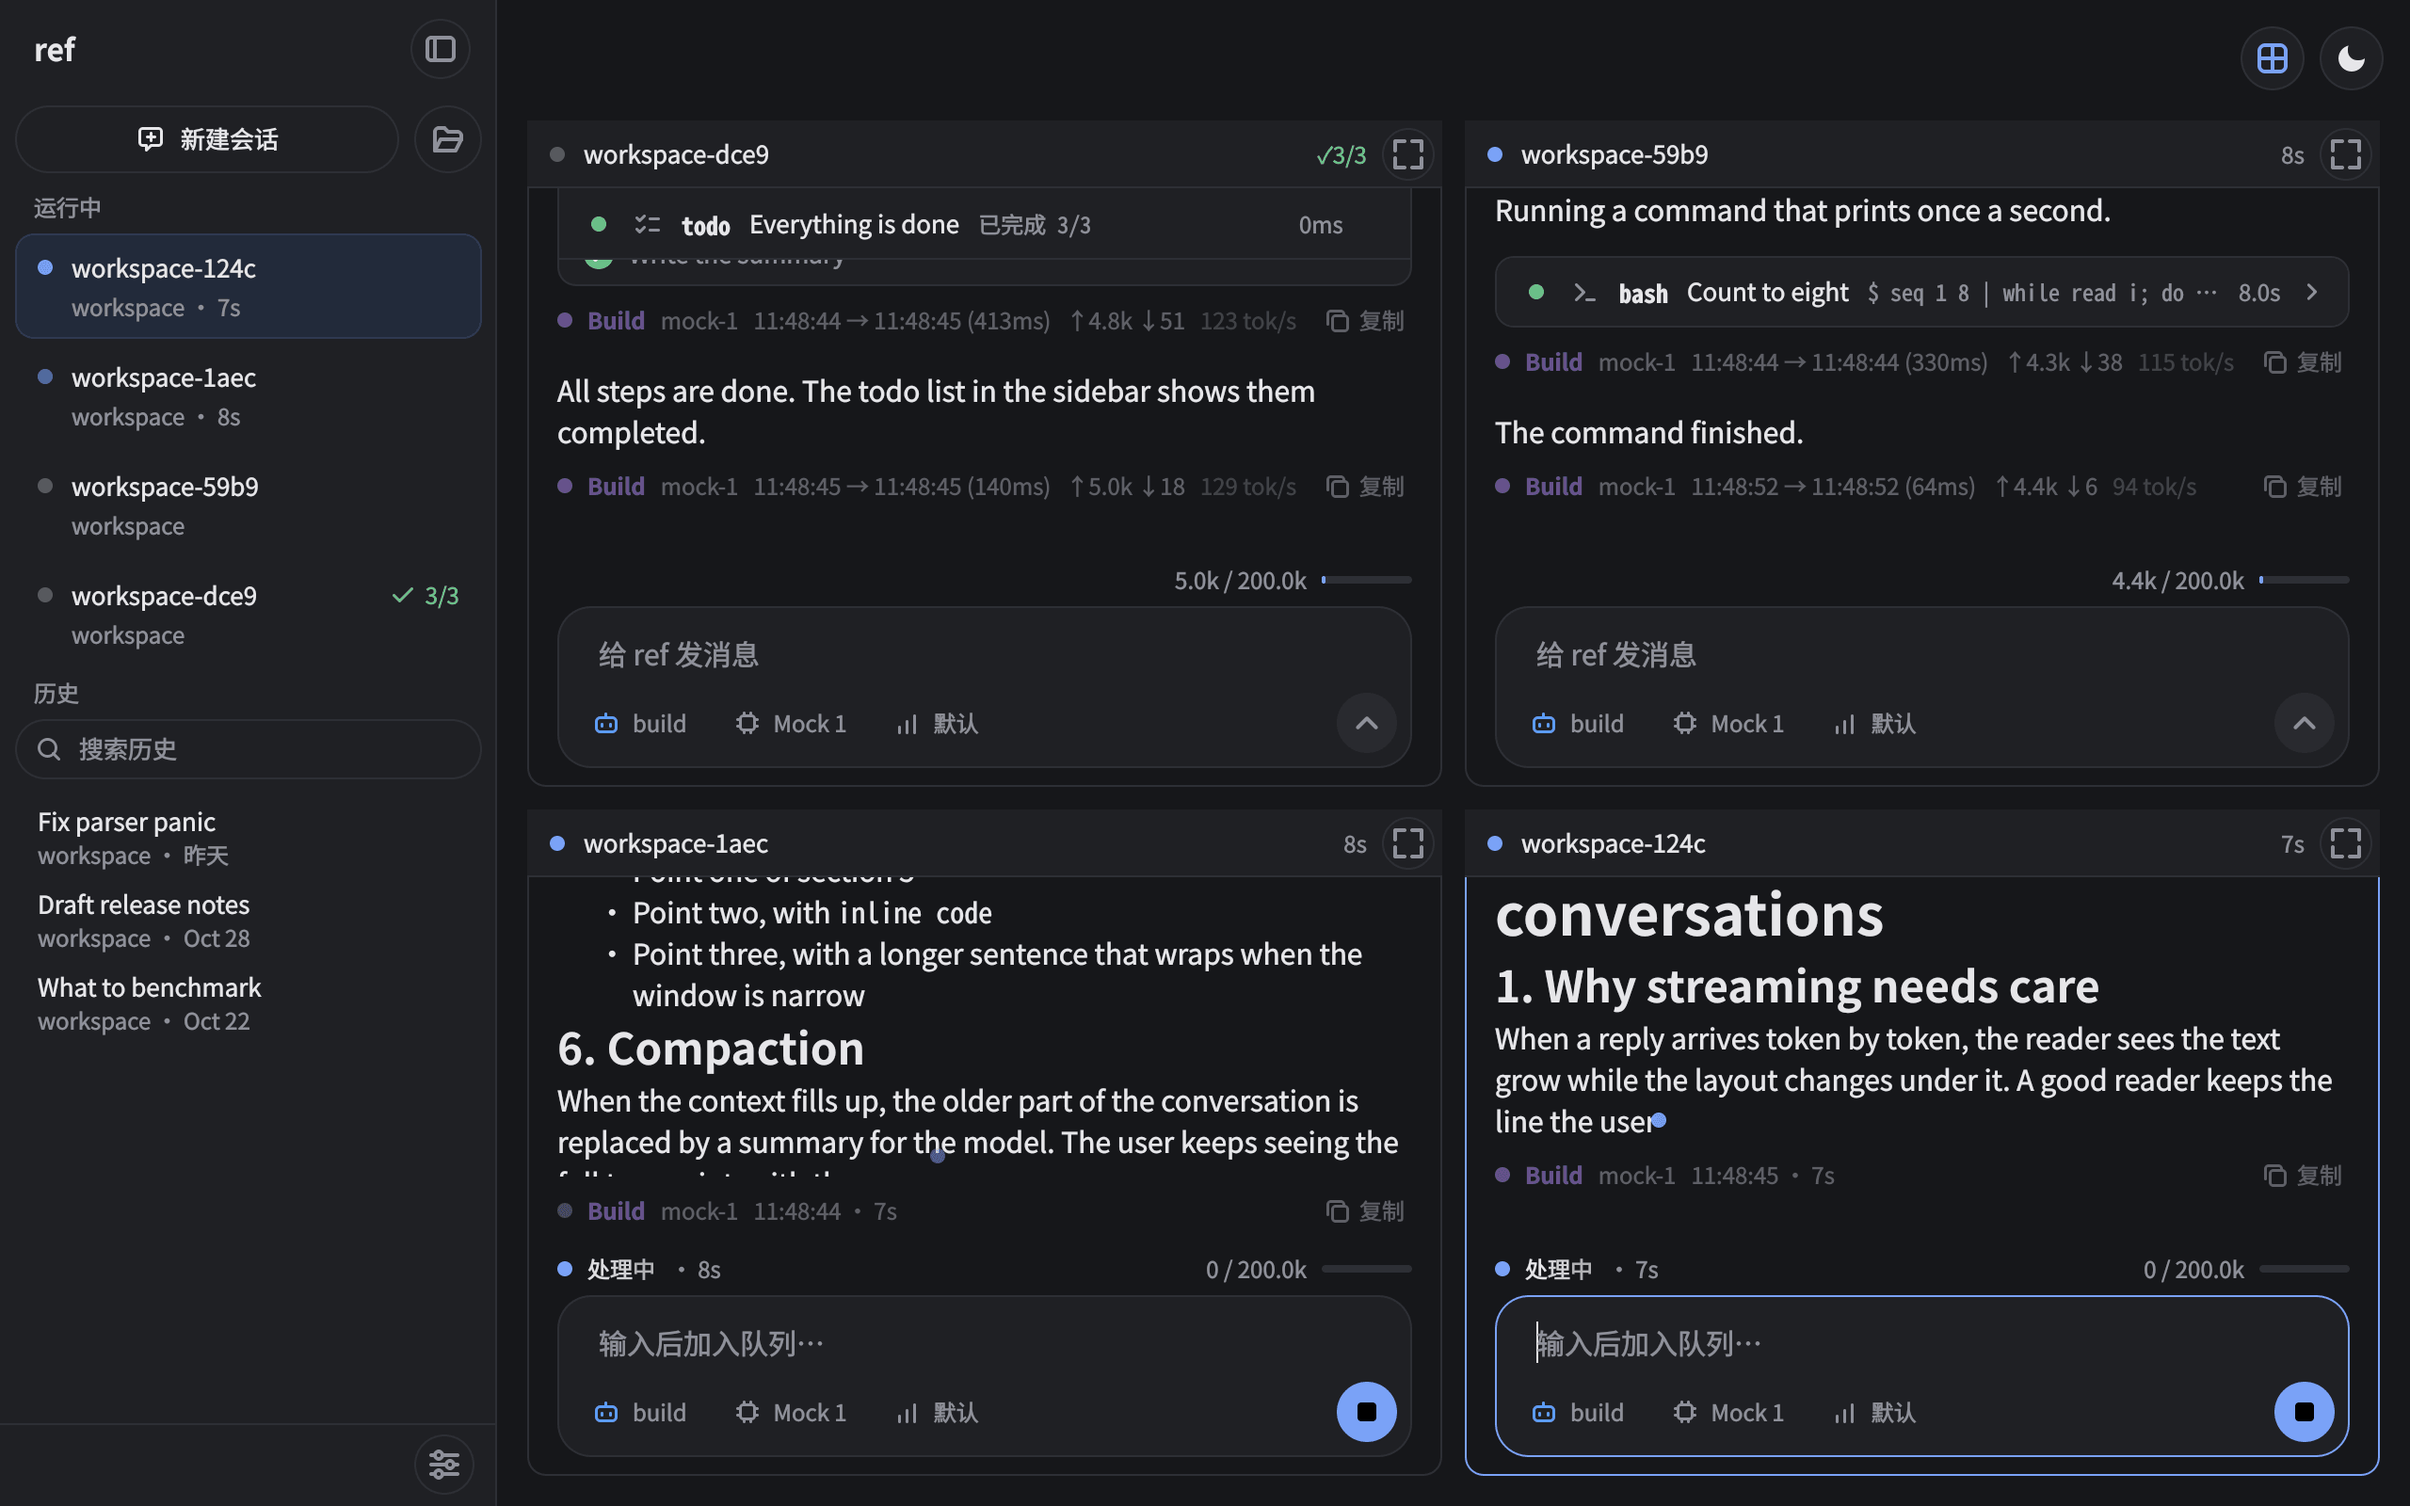
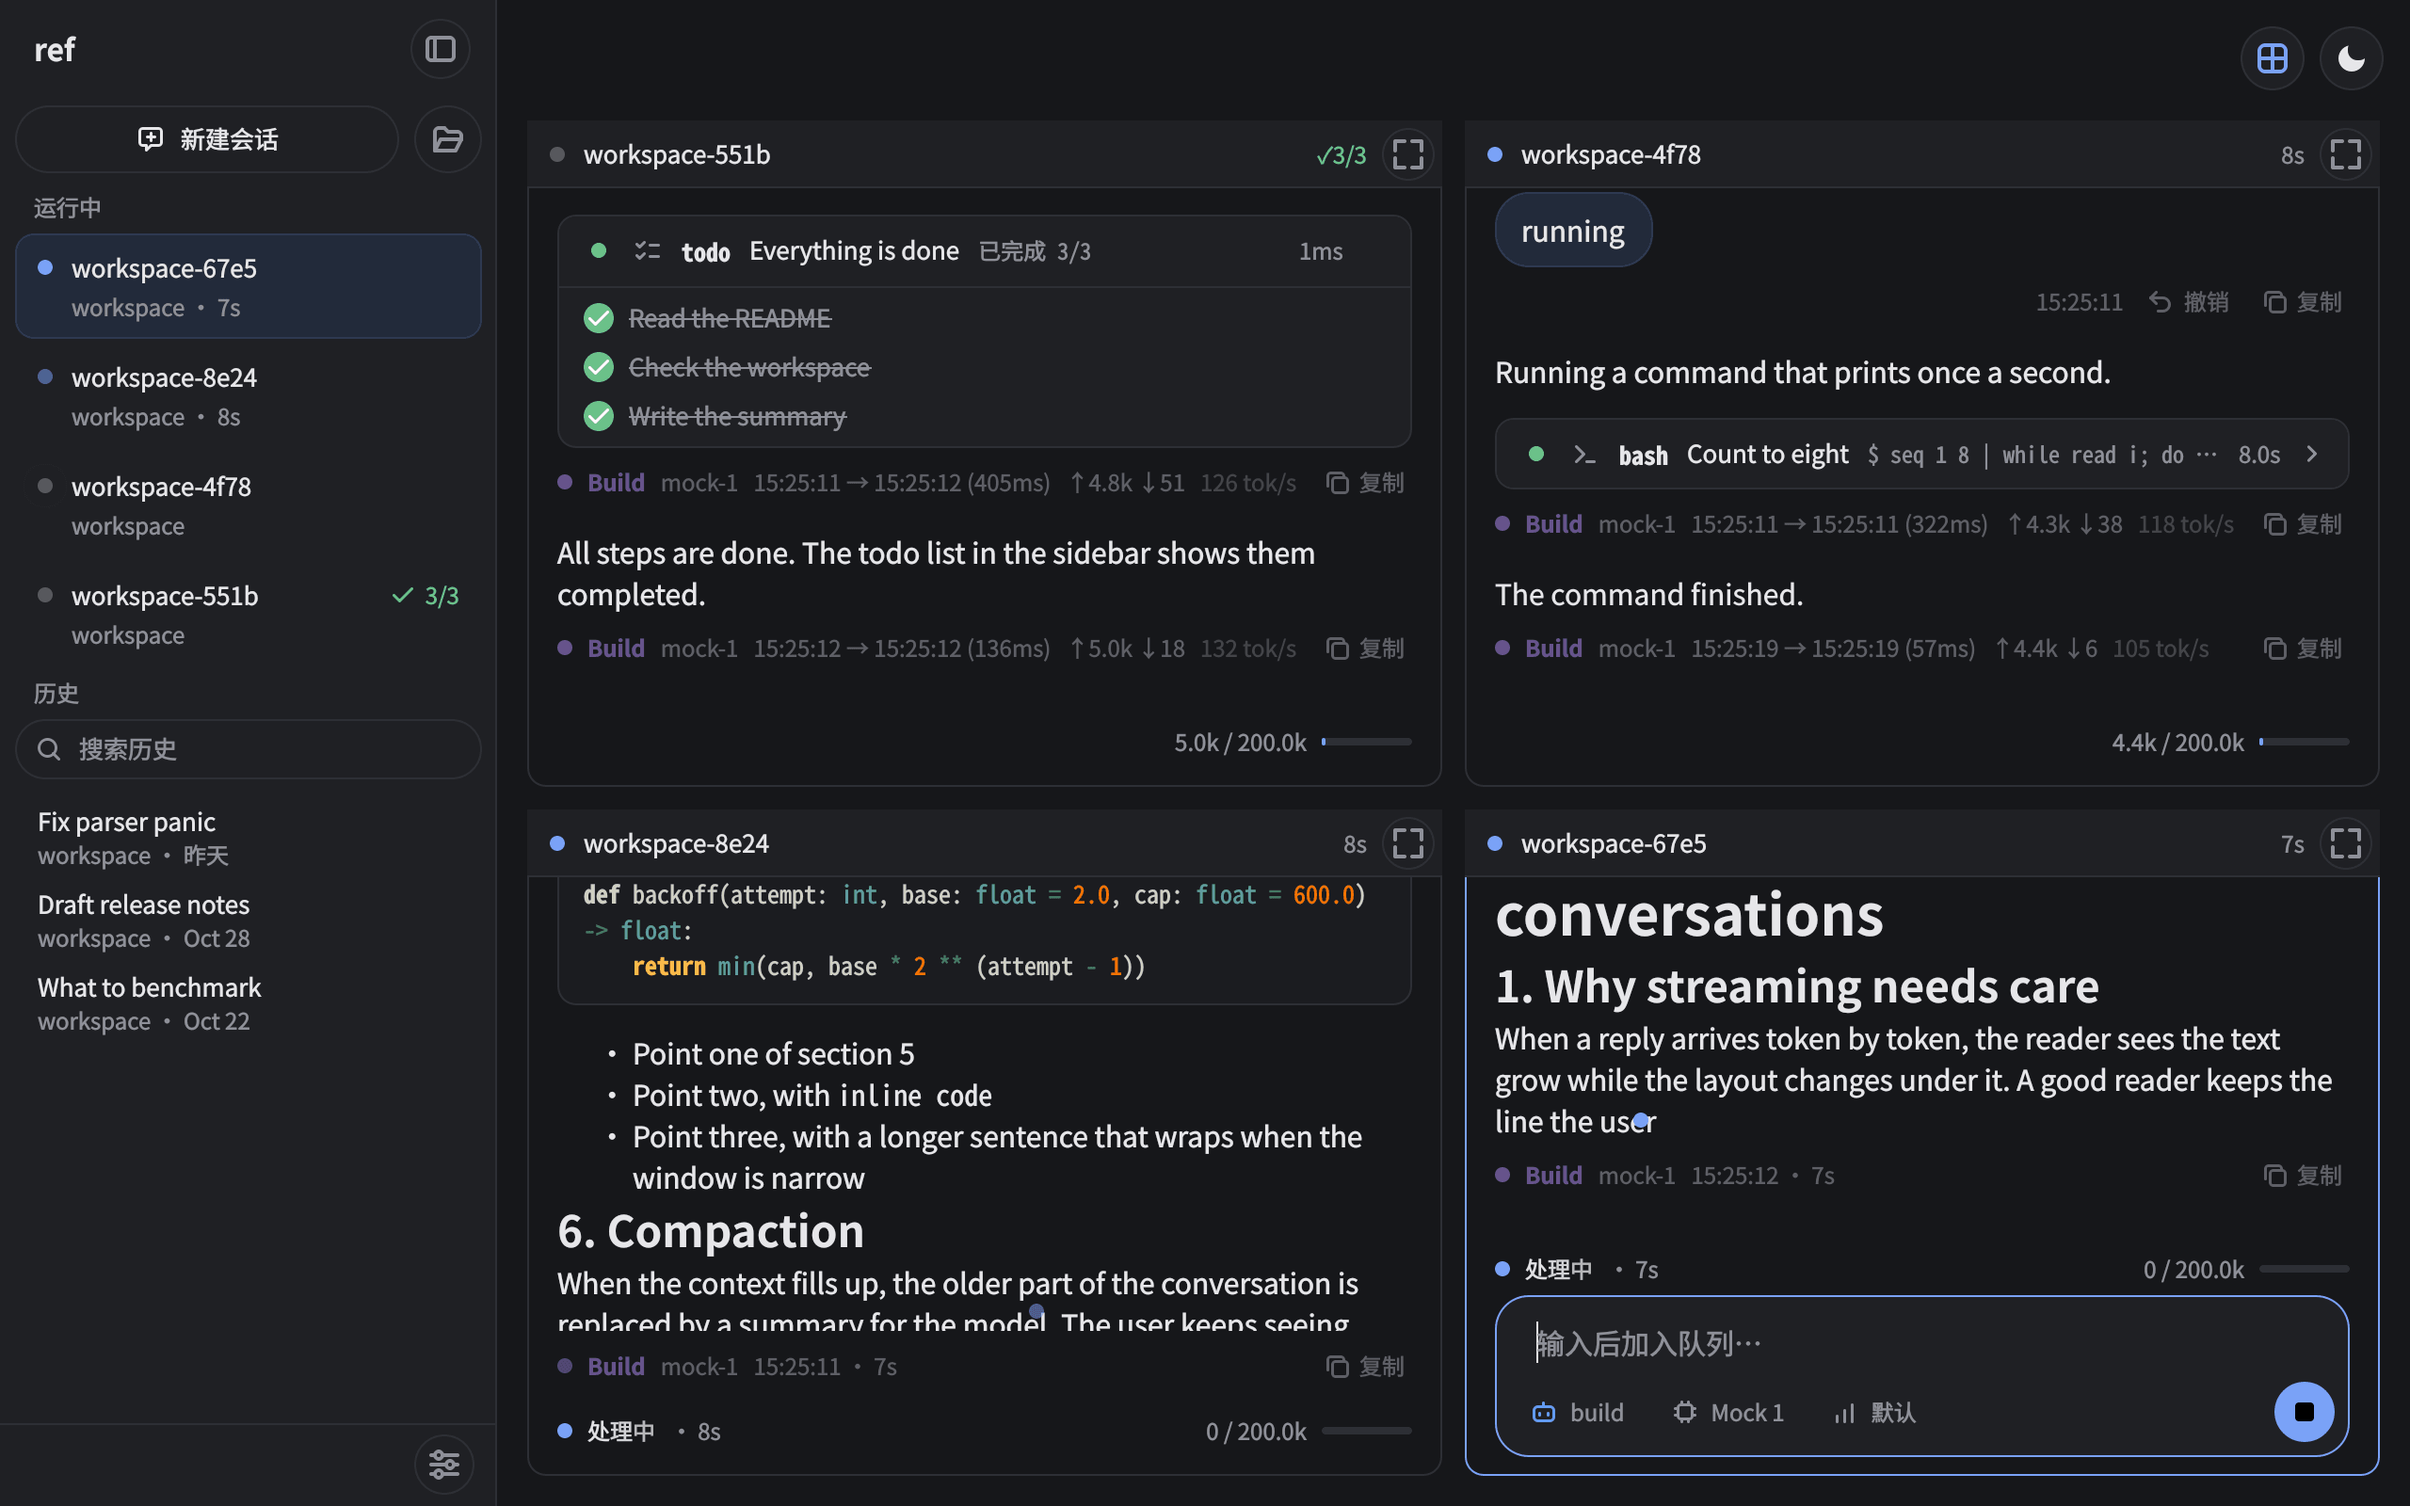
promo: split-view stills and sessions film for the hidden input boxes in unfocused tiles

diff --git a/promo/src/films/sessions.ts b/promo/src/films/sessions.ts
@@ -29,7 +29,7 @@ export const scene = filmScene(feature, [
       { at: 1.2, x: 0.8, y: 0.76, zoom: 1.8 },
     ],
     marks: [{ x: 0.61, y: 0.55, width: 0.38, height: 0.43, from: 1.8, to: 6.3 }],
-    caption: { en: 'The focused tile has its own prompt box.', zh: '选中的会话有自己的输入框。' },
+    caption: { en: 'Only the focused tile has a prompt box.', zh: '只有选中的会话有输入框。' },
   }),
   windowBeat({
     seconds: 7,

diff --git a/promo/capture/scenarios.ts b/promo/capture/scenarios.ts
@@ -12,7 +12,7 @@ const STREAM_MS = 5000
 const DELAY_RING_MS = 3000 // the text, a temporary file and the delete call take about 2 s
 const TOOLS_DONE = 'Done. The edit went through'
 const GUI_README_WIDTH = 1280
-const GUI_README_HEIGHT = 1120
+const GUI_README_HEIGHT = 1344
 const LOGO_PNG = join(REPO_ROOT, 'assets', 'app', 'png', 'ref-256.png')
 
 export const SCENARIOS: Scenario[] = [
